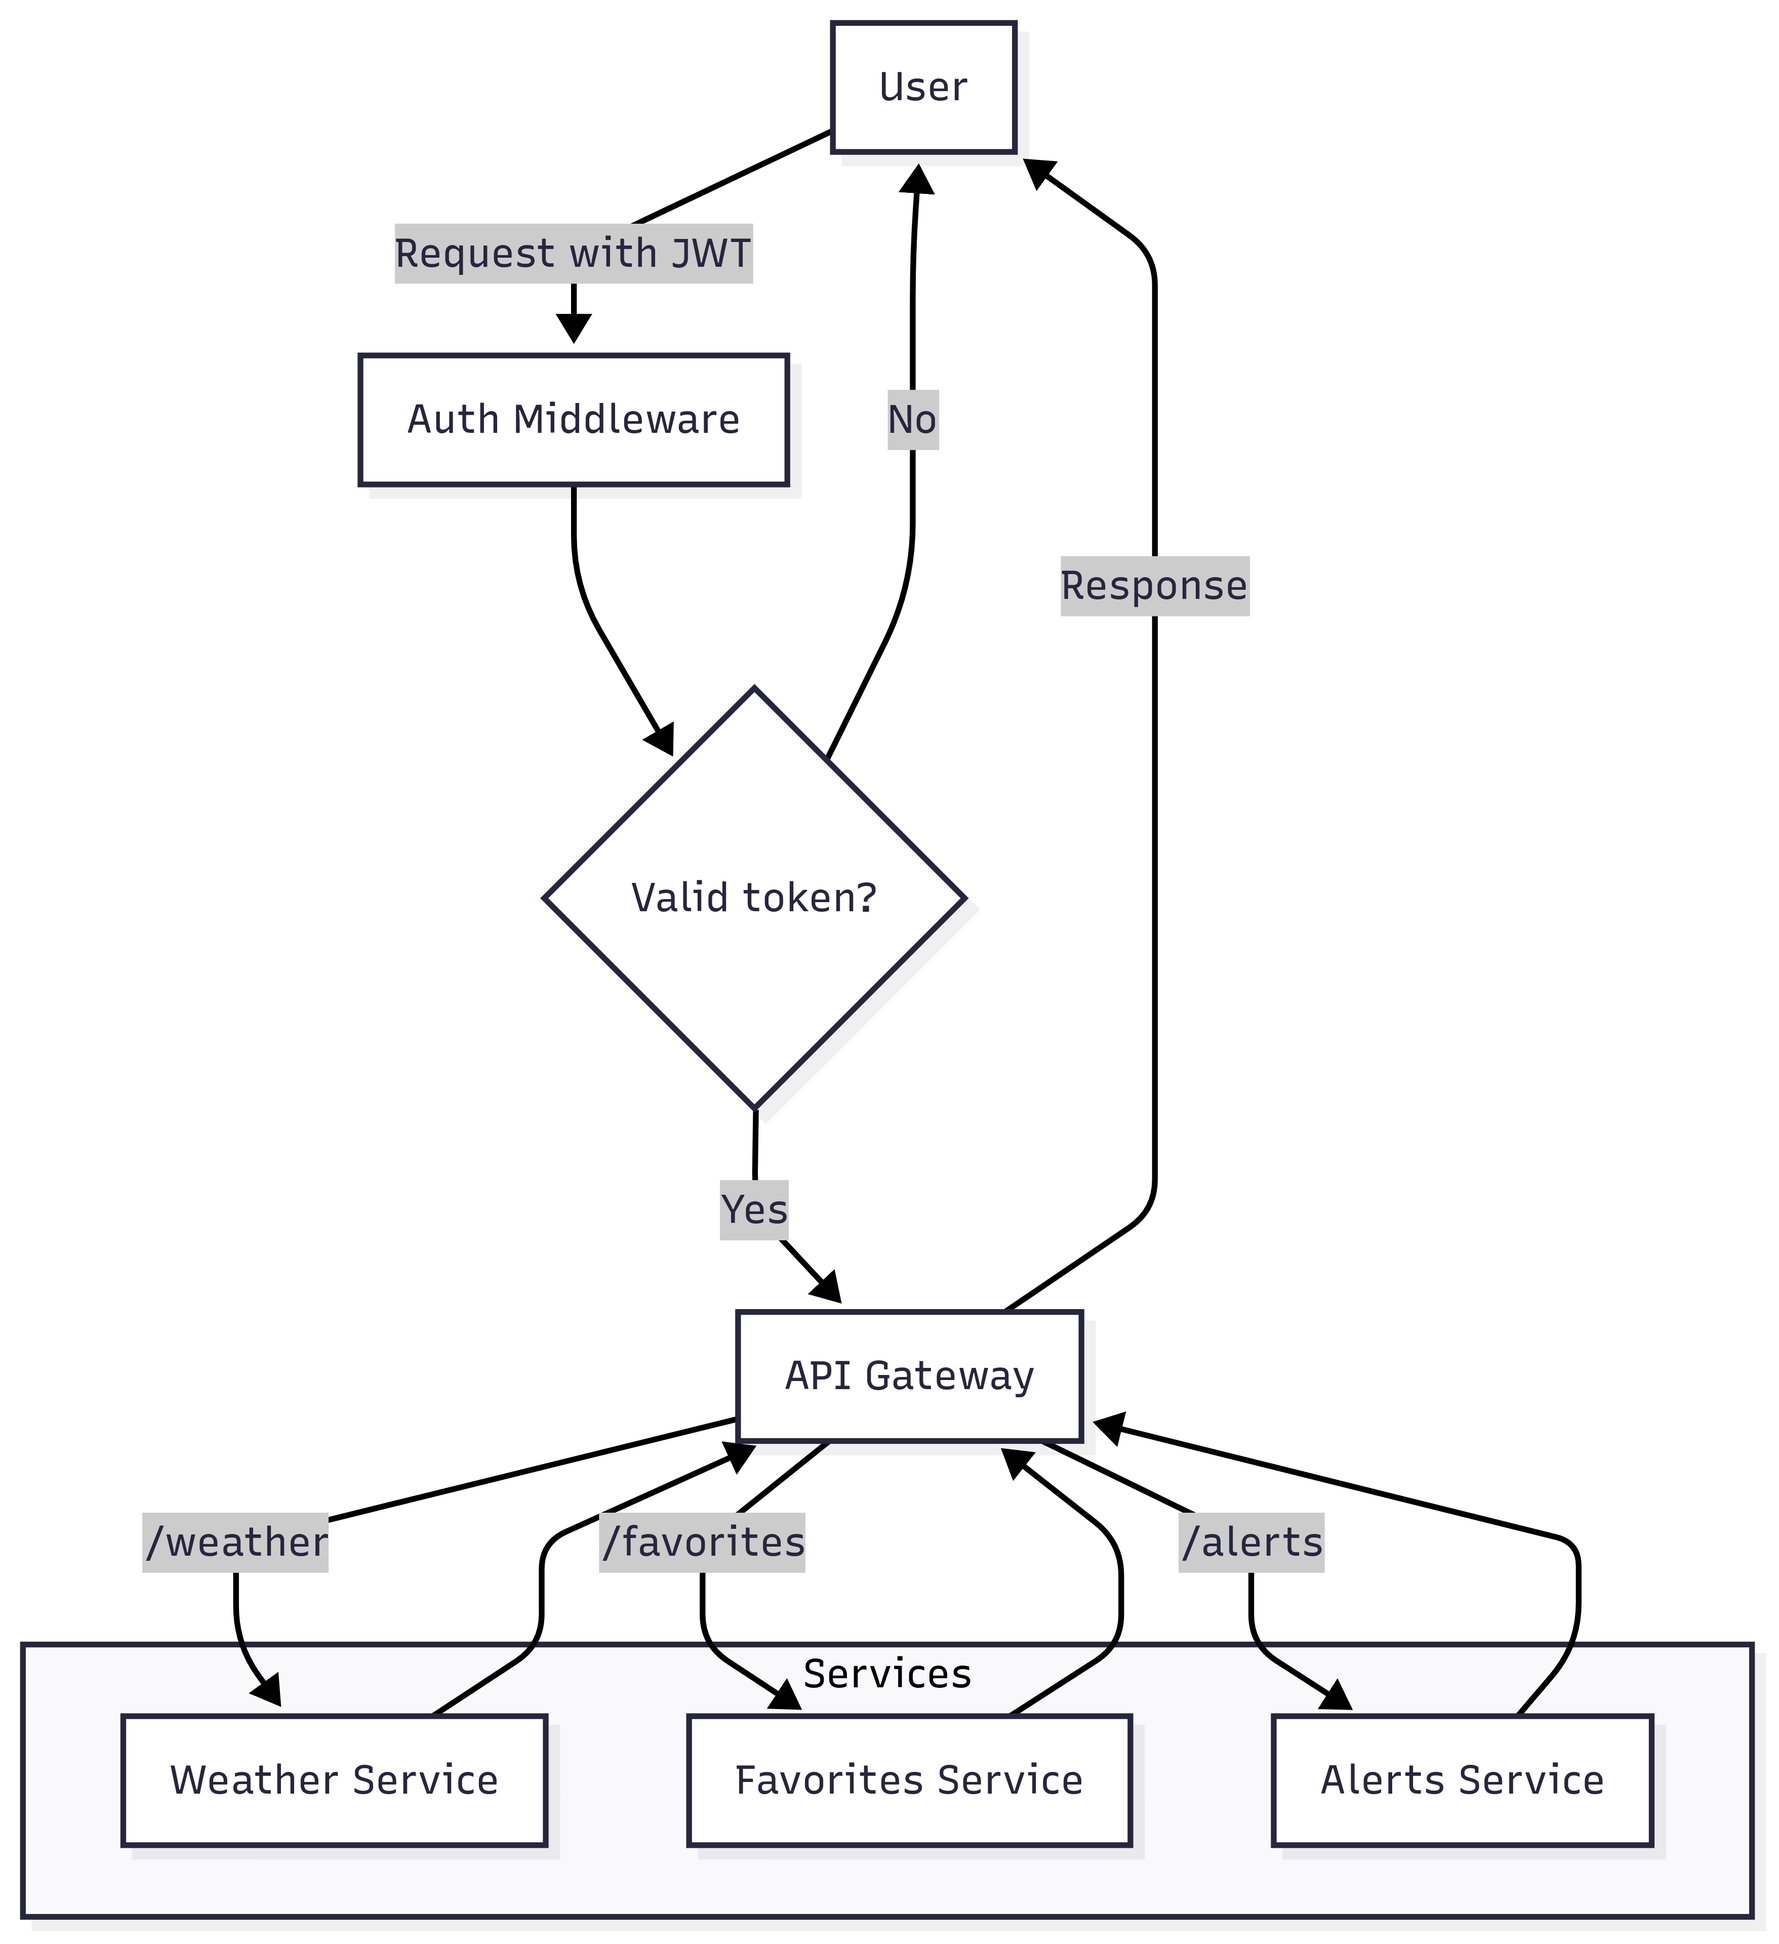
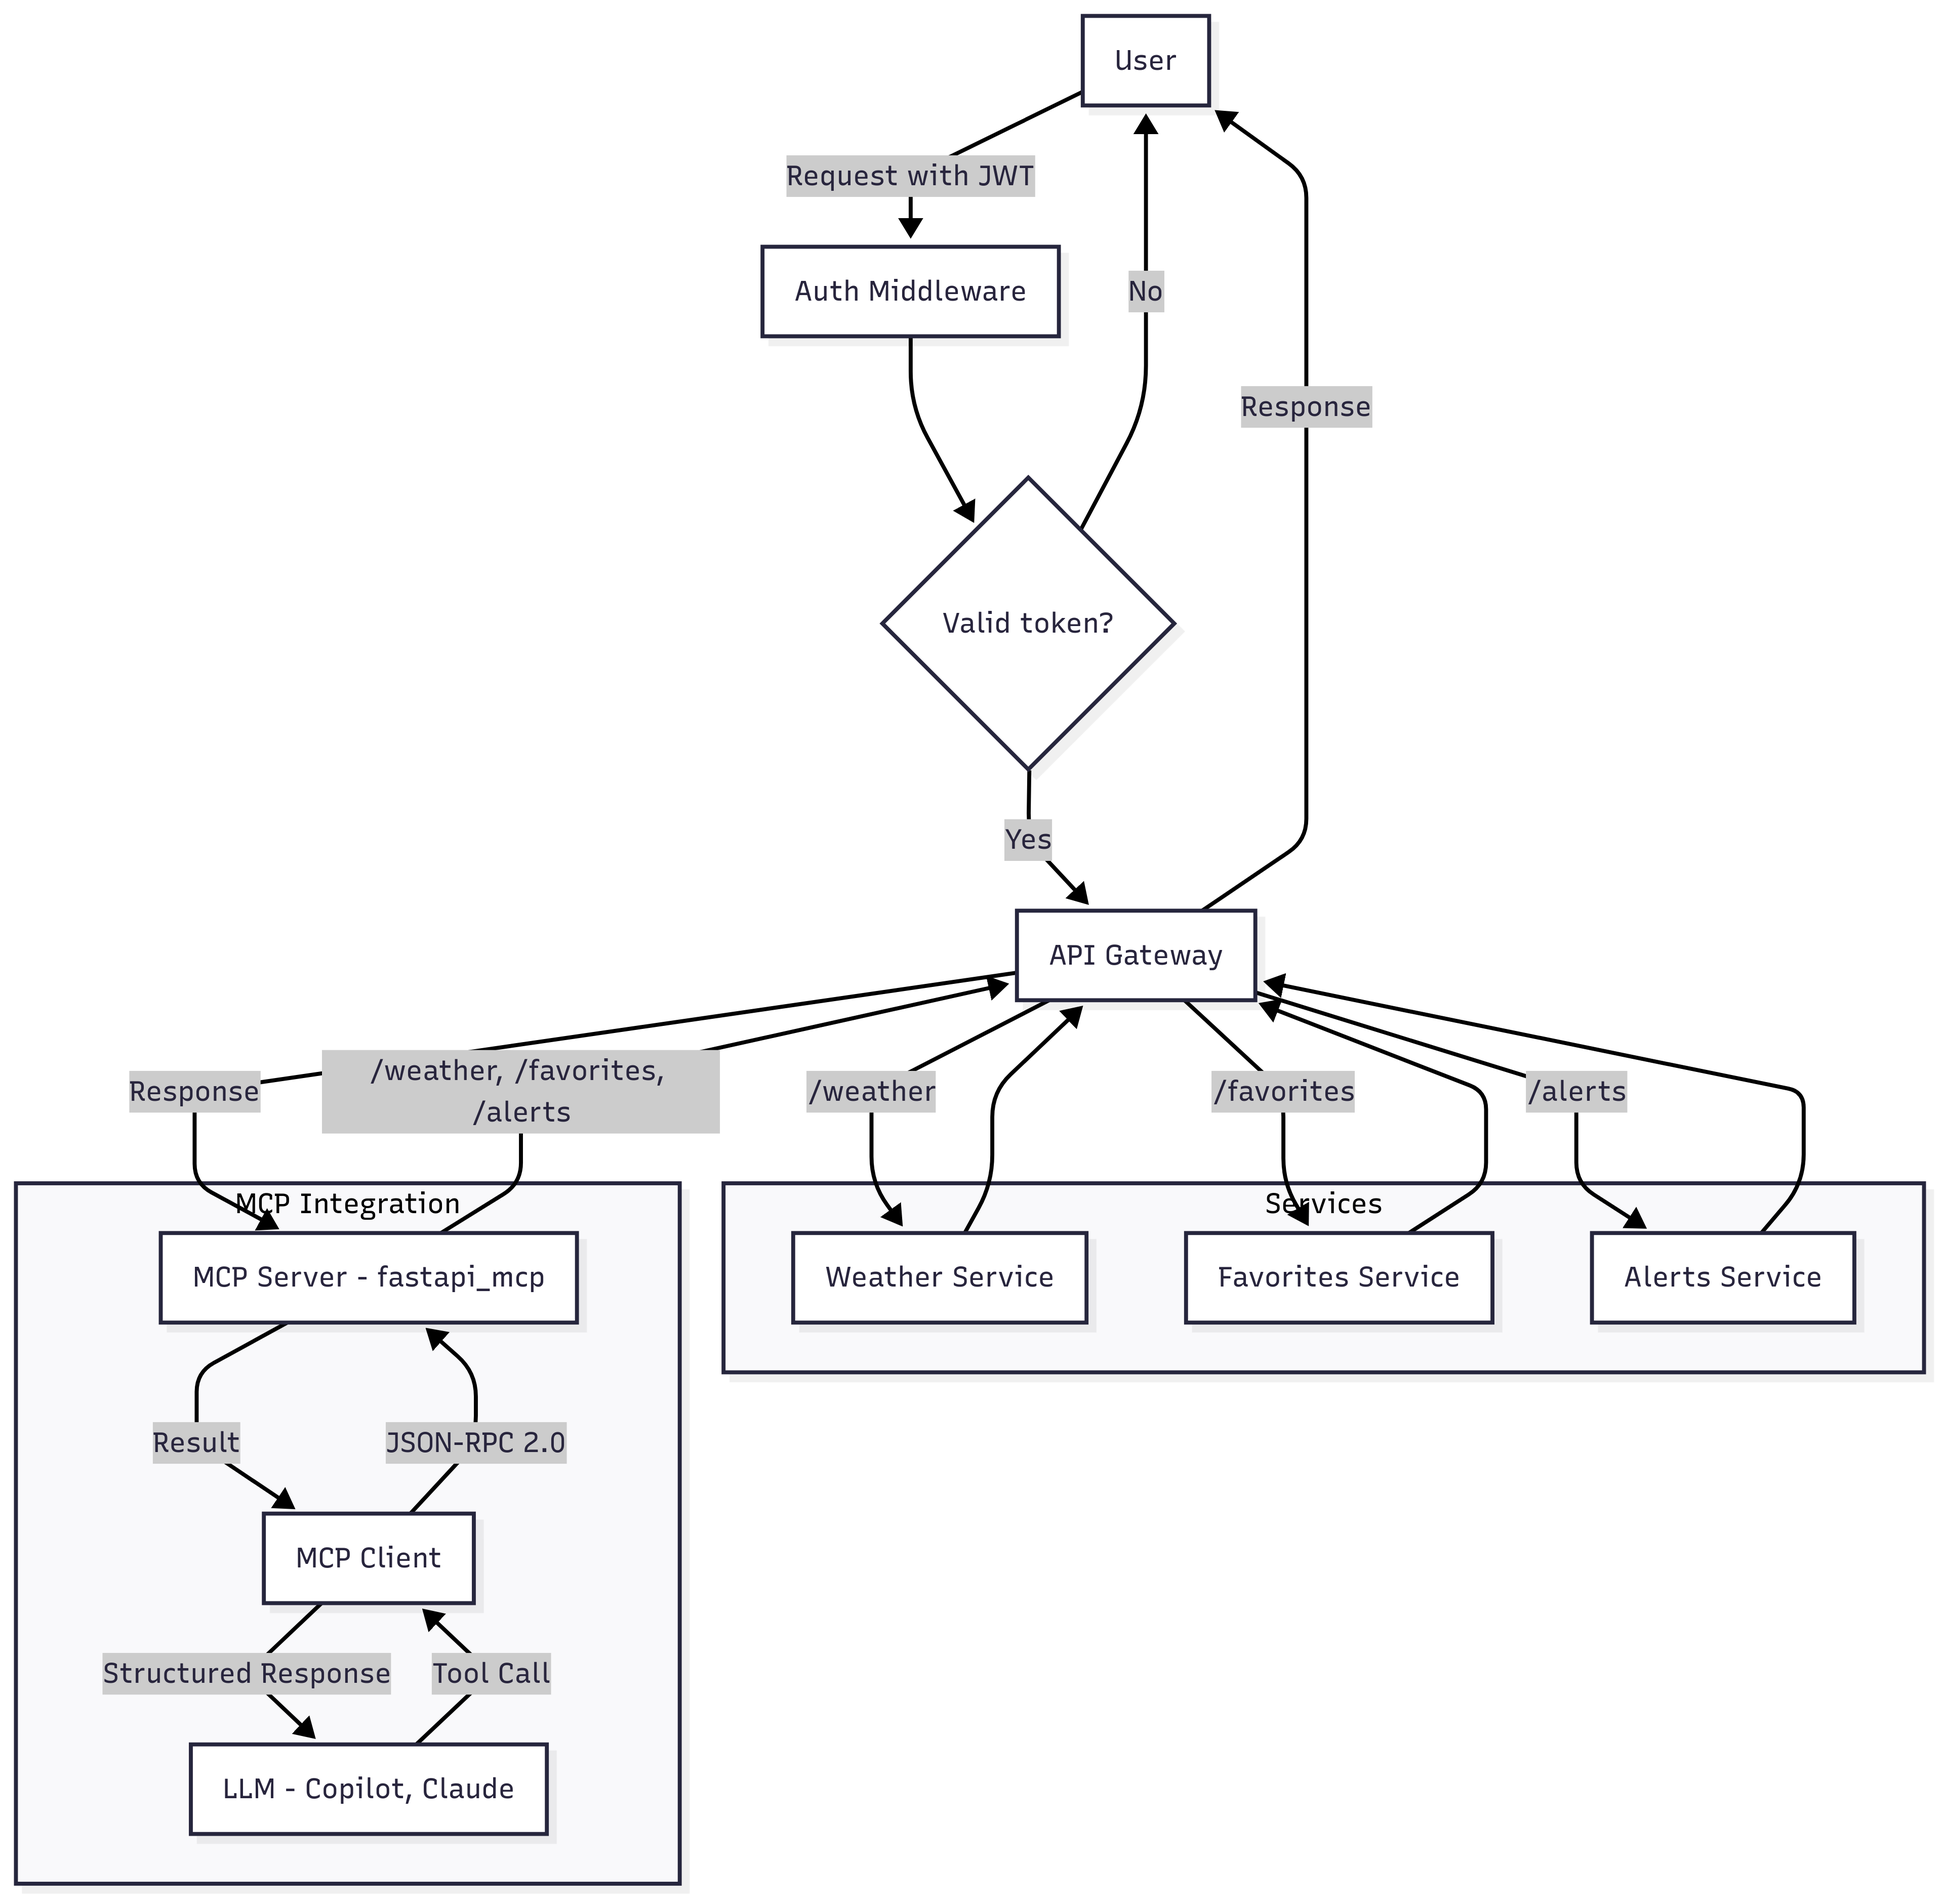
updade readme.md

diff --git a/README.md b/README.md
@@ -1,6 +1,16 @@
-# ClimateWatch Gateway
+# Weather Gateway API (MCP-Enabled)
 
-ClimateWatch Gateway is a microservices-based project that provides weather information, favorites management, and weather alerts through a unified API gateway.
+This project is a FastAPI-based Weather Gateway that exposes weather forecast endpoints by city name or geographic coordinates. It is fully integrated with the **Model Context Protocol (MCP)**, enabling interaction with **LLMs (Large Language Models)** and AI agents that support structured tool calling.
+
+## What is MCP?
+
+MCP (Model Context Protocol) is the emerging standard that defines how AI models and agents can securely and dynamically communicate with external applications via structured API calls. By supporting MCP, this API can now be called by LLMs (like OpenAI’s GPT) to retrieve real-time weather information.
+
+## Authentication
+
+All endpoints in the API Gateway require both authentication and authorization.
+Users must register and log in via OAuth2 to obtain a JWT token, which must be included in the Authorization header of each request using the Bearer scheme. This token authenticates the user and also carries permission data used to authorize access to protected endpoints—such as retrieving weather data, managing favorite cities, and checking weather alerts.
+
 
 ## Architecture diagram
 
@@ -19,10 +29,9 @@ ClimateWatch Gateway is a microservices-based project that provides weather info
 - [FastAPI](https://fastapi.tiangolo.com/)
 - [httpx](https://www.python-httpx.org/)
 - [uvicorn](https://www.uvicorn.org/)
+- [fastapi_mcp](https://github.com/tadata-org/fastapi_mcp)
 
 ## Installation
-
-1. Clone the repository:
 
 1. Clone the repository:
 
@@ -60,7 +69,33 @@ uvicorn main:app --reload --host 0.0.0.0 --port 8003
 cd gateway
 uvicorn main:app --reload --host 0.0.0.0 --port 8000
 ```
+### Building Docker Images
 
+To build all the required Docker images for the environment, use the script:
+
+```bash
+./build-images.sh
+```
+
+This script will build all images defined in the project, ensuring they are up to date for use with Docker Compose.
+
+### Running Docker Compose
+
+After building the images, start all services with:
+
+```bash
+docker-compose up
+```
+
+To run in detached mode (in the background):
+
+```bash
+docker-compose up -d
+```
+
+This will start all containers defined in the `docker-compose.yml` file, using the newly built images.
+
+---
 ## API Endpoints
 
 - `GET /api/weather?city=CityName` — Get weather for a city.
